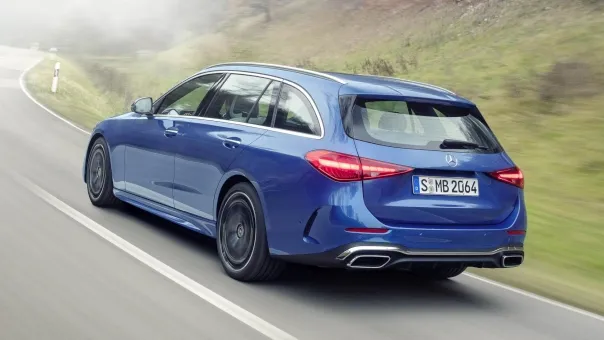
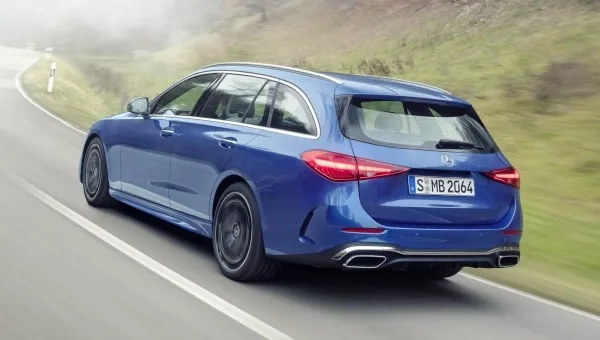
246

diff --git a/pic/ja_mb_img_c.html b/pic/ja_mb_img_c.html
@@ -730,7 +730,7 @@
 						<h4 class="displayNone">W206</h4>
 						<a href="full/c/w206_b.jpg"><img loading="lazy" src="style/c/w206_b.webp" alt="メルセデス,W206,Cクラス,ヘッドライト" width="602" height="403"></a>
 						<a href="full/c/w206_x.jpg"><img loading="lazy" src="style/c/w206_x.webp" alt="メルセデス,W206,Cクラス,送風口" width="602" height="403"></a><br>
-						<a href="full/c/w206_r.jpg"><img loading="lazy" src="style/c/w206_r.webp" alt="メルセデス,W206,Cクラス,リヤ" width="700" height="340"></a>
+						<a href="full/c/w206_r.jpg"><img loading="lazy" src="style/c/w206_r.webp" alt="メルセデス,W206,Cクラス,リヤ" width="695" height="340"></a>
 						<a href="full/c/w206_xx.jpg"><img loading="lazy" src="style/c/w206_xx.webp" alt="メルセデス,W206,Cクラス,テールランプ" widt="" height="340" width="510"></a><br>
 						<a href="full/c/w206_d.jpg"><img loading="lazy" src="style/c/w206_d.webp" alt="メルセデス,W206,Cクラス,ダッシュボード" width="602" height="340"></a>
 						<a href="full/c/w206_i.webp"><img loading="lazy" src="style/c/w206_i.webp" alt="メルセデス,W206,Cクラス,インテリア" width="602" height="340"></a>
@@ -749,9 +749,9 @@
 					<section>
 						<h4 class="displayNone">T-Model</h4>
 						<a href="full/c/s206_f.jpg"><img loading="lazy" src="style/c/s206_f.webp" alt="メルセデス,S206,Cクラス,フロント" width="604" height="340"></a>
-						<a href="full/c/s206_r.jpg"><img loading="lazy" src="style/c/s206_r.webp" alt="メルセデス,S206,Cクラス,リヤ" width="604" height="340"></a><br>
+						<a href="full/c/s206_r.jpg"><img loading="lazy" src="style/c/s206_r.webp" alt="メルセデス,S206,Cクラス,リヤ" width="600" height="340"></a><br>
 						<a href="full/c/s206_i.jpg"><img loading="lazy" src="style/c/s206_i.webp" alt="メルセデス,S206,Cクラス,インテリア" width="604" height="403"></a>
-						<a href="full/c/w206_m.jpg"><img loading="lazy" src="style/c/w206_m.webp" alt="メルセデス,W206,Cクラス,エンジン" width="604" height="403"></a><br>
+						<a href="full/c/w206_m.jpg"><img loading="lazy" src="style/c/w206_m.webp" alt="メルセデス,W206,Cクラス,エンジン" width="600" height="403"></a><br>
 						<h5 class="i">All-Terrain</h5>
 						<p class="i m1">10/2021</p><br>
 						<a href="full/c/s206_all-terrain_r.jpg"><img loading="lazy" src="style/c/s206_all-terrain_r.webp" alt="メルセデス,S206,Cクラス,All-Terrain,リヤ" width="1210" height="681"></a><br>

diff --git a/pic/mb_img_c.html b/pic/mb_img_c.html
@@ -730,7 +730,7 @@
 						<h4 class="displayNone">W206</h4>
 						<a href="full/c/w206_b.jpg"><img loading="lazy" src="style/c/w206_b.webp" alt="Mercedes,W206,C-klasse,Kopf lite" width="602" height="403"></a>
 						<a href="full/c/w206_x.jpg"><img loading="lazy" src="style/c/w206_x.webp" alt="Mercedes,W206,C-klasse,Lüfter der Klimaanlage" width="602" height="403"></a><br>
-						<a href="full/c/w206_r.jpg"><img loading="lazy" src="style/c/w206_r.webp" alt="Mercedes,W206,C-klasse,Heckansicht" width="700" height="340"></a>
+						<a href="full/c/w206_r.jpg"><img loading="lazy" src="style/c/w206_r.webp" alt="Mercedes,W206,C-klasse,Heckansicht" width="695" height="340"></a>
 						<a href="full/c/w206_xx.jpg"><img loading="lazy" src="style/c/w206_xx.webp" alt="Mercedes,W206,C-klasse,Rücklicht" width="510" height="340"></a><br>
 						<a href="full/c/w206_d.jpg"><img loading="lazy" src="style/c/w206_d.webp" alt="Mercedes,W206,C-klasse,Instrumententafel" width="602" height="340"></a>
 						<a href="full/c/w206_i.webp"><img loading="lazy" src="style/c/w206_i.webp" alt="Mercedes,W206,C-klasse,Innenansicht" width="602" height="340"></a>
@@ -749,9 +749,9 @@
 					<section>
 						<h4 class="displayNone">T-Modell</h4>
 						<a href="full/c/s206_f.jpg"><img loading="lazy" src="style/c/s206_f.webp" alt="Mercedes,S206,C-klasse,Frontansicht" width="604" height="340"></a>
-						<a href="full/c/s206_r.jpg"><img loading="lazy" src="style/c/s206_r.webp" alt="Mercedes,S206,C-klasse,Heckansicht" width="604" height="340"></a><br>
+						<a href="full/c/s206_r.jpg"><img loading="lazy" src="style/c/s206_r.webp" alt="Mercedes,S206,C-klasse,Heckansicht" width="600" height="340"></a><br>
 						<a href="full/c/s206_i.jpg"><img loading="lazy" src="style/c/s206_i.webp" alt="Mercedes,S206,C-klasse,Innenansicht" width="604" height="403"></a>
-						<a href="full/c/w206_m.jpg"><img loading="lazy" src="style/c/w206_m.webp" alt="Mercedes,W206,C-klasse,Motor" width="604" height="403"></a><br>
+						<a href="full/c/w206_m.jpg"><img loading="lazy" src="style/c/w206_m.webp" alt="Mercedes,W206,C-klasse,Motor" width="600" height="403"></a><br>
 						<h5 class="i">Alle-Terrain</h5>
 						<p class="i m1">10/2021</p><br>
 						<a href="full/c/s206_all-terrain_r.jpg"><img loading="lazy" src="style/c/s206_all-terrain_r.webp" alt="Mercedes,S206,C-klasse,Alle-Terrain,Rückansicht" width="1210" height="681"></a><br>

diff --git a/pic/en_mb_img_c.html b/pic/en_mb_img_c.html
@@ -730,7 +730,7 @@
 						<h4 class="displayNone">W206</h4>
 						<a href="full/c/w206_b.jpg"><img loading="lazy" src="style/c/w206_b.webp" alt="Mercedes,W206,C-class,Head lite" width="602" height="403"></a>
 						<a href="full/c/w206_x.jpg"><img loading="lazy" src="style/c/w206_x.webp" alt="Mercedes,W206,C-class,Air conditioning fan" width="602" height="403"></a><br>
-						<a href="full/c/w206_r.jpg"><img loading="lazy" src="style/c/w206_r.webp" alt="Mercedes,W206,C-class,Rear view" width="700" height="340"></a>
+						<a href="full/c/w206_r.jpg"><img loading="lazy" src="style/c/w206_r.webp" alt="Mercedes,W206,C-class,Rear view" width="695" height="340"></a>
 						<a href="full/c/w206_xx.jpg"><img loading="lazy" src="style/c/w206_xx.webp" alt="Mercedes,W206,C-class,Taillight" width="510" height="340"></a><br>
 						<a href="full/c/w206_d.jpg"><img loading="lazy" src="style/c/w206_d.webp" alt="Mercedes,W206,C-class,Dashboard" width="602" height="340"></a>
 						<a href="full/c/w206_i.webp"><img loading="lazy" src="style/c/w206_i.webp" alt="Mercedes,W206,C-class,Interior" width="602" height="340"></a>
@@ -749,9 +749,9 @@
 					<section>
 						<h4 class="displayNone">S206</h4>
 						<a href="full/c/s206_f.jpg"><img loading="lazy" src="style/c/s206_f.webp" alt="Mercedes,S206,C-class,Front view" width="604" height="340"></a>
-						<a href="full/c/s206_r.jpg"><img loading="lazy" src="style/c/s206_r.webp" alt="Mercedes,S206,C-class,Rear view" width="604" height="340"></a><br>
+						<a href="full/c/s206_r.jpg"><img loading="lazy" src="style/c/s206_r.webp" alt="Mercedes,S206,C-class,Rear view" width="600" height="340"></a><br>
 						<a href="full/c/s206_i.jpg"><img loading="lazy" src="style/c/s206_i.webp" alt="Mercedes,S206,C-class,Interior" width="604" height="403"></a>
-						<a href="full/c/w206_m.jpg"><img loading="lazy" src="style/c/w206_m.webp" alt="Mercedes,W206,C-class,Engine" width="604" height="403"></a>
+						<a href="full/c/w206_m.jpg"><img loading="lazy" src="style/c/w206_m.webp" alt="Mercedes,W206,C-class,Engine" width="600" height="403"></a>
 						<h5 class="i">All-Terrain</h5>
 						<p class="i m1">10/2021</p><br>
 						<a href="full/c/s206_all-terrain_r.jpg"><img loading="lazy" src="style/c/s206_all-terrain_r.webp" alt="Mercedes,S206,C-class,All-Terrain,Rear view" width="1210" height="681"></a><br>
